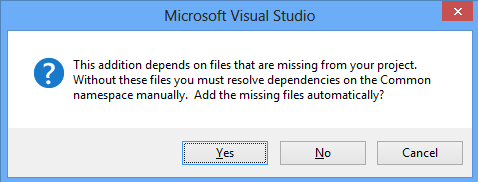
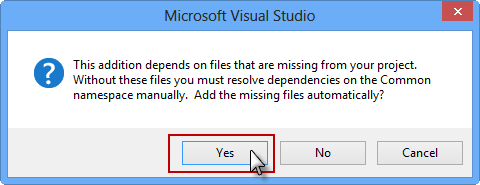
# Updated Scrumptious tutorial for Windows 8 (WIP)

diff --git a/docs/windows/tutorial/index.md b/docs/windows/tutorial/index.md
@@ -32,20 +32,24 @@ Once you have created the app, you need to edit the app and change a few setting
 
 ![Create Facebook App](images/FacebookAppWebsite/2-EditFBAppBasic.png)
 
-> ATTENTION: You may have to wait 5-10 minutes for the App you just created to propagate through the Facebook system before it becomes Active. If your app's facebook login is not working immediately after you created the App, give it 10 minutes and try again.
+> **Important**: You may have to wait 5-10 minutes for the App you just created to propagate through the Facebook system before it becomes Active. If your app's facebook login is not working immediately after you created the App, give it 10 minutes and try again.
 
 ### Getting Started on the Application
-To get started, create a Visual Studio project using the Visual C# -> Windows Store -> Blank App. Let us call our app the Facebook.Scrumptious.Windows8. Install the Facebook nuget package into the solution by starting the Package Manager powershell by following:
+To get started, create a Visual Studio project using the _Visual C# -> Windows Store -> Blank App_. Let us call our app the _Facebook.Scrumptious.Windows8_.
 
-Tools->Library Package Manager->Package Manager console
+![Create a Windows Store Blank App](images/Introduction/1-CreatingProject.png)
+
+Install the Facebook nuget package into the solution by starting the Package Manager powershell by following:
+
+_Tools->Library Package Manager->Package Manager console_
 
 Once the powershell command prompt is running, type the following two commands
 
-"Install-Package Facebook"
+    Install-Package Facebook
 
 ![Intall Nuget](images/Introduction/1.1-AddingFacebookNuget.png)
 
-"Install-Package Facebook.Client -pre"
+    Install-Package Facebook.Client -pre
 
 ![Intall Nuget](images/Introduction/1.1.1-AddingFacebook.ClientNuget.png)
 
@@ -53,7 +57,7 @@ These will download the nuget packages and install the SDK into your project and
 
 ![Facebook Reference](images/Introduction/1.2-AddingFacebook-References.png)
 
-> NOTE: The _-pre_ flag is applied to the Facebook.Client NuGet package because it is still in preview mode owing to currently being in active development. Once this package is stable, you will not need the _-pre_ flag.
+> **Note**: The _-pre_ flag is applied to the Facebook.Client NuGet package because it is still in preview mode owing to currently being in active development. Once this package is stable, you will not need the _-pre_ flag.
 
 Once you've done that, work through the following steps of the tutorial:
 
@@ -91,11 +95,11 @@ This will show a Red line under the HomePage showing Visual Studio does not know
 
 ![Resolve Home Page](images/Authenticate/2.2-ResolveHomePage.png)
 
-You can also resolve this  by manually typing:
+You can also resolve this by manually typing at the top of the page the following line:
 
     using Facebook.Scrumptious.Windows8.Views; 
 
-at the top of the page. In future references, I will assume that you know how to resolve a reference.
+In future references, I will assume that you know how to resolve a reference.
 
 The HomePage will host our Facebook login button and the Facebook login code.
 
@@ -109,6 +113,14 @@ This will show a prompt saying that to satisfy dependencies, more files will be 
 
 ### Setup the User Interface
 
+
+Add a new item of type _class_ to the _ViewModel_ folder. Call the class _Constants.cs_ and add the following code to it. Make sure to replace the string _Your Facebook App ID here_ with your Facebook App ID that you obtained earlier when you created your app on the Facebook Developer Portal.
+
+    public class Constants
+    {
+        public static readonly string FacebookAppId = "Your Facebook App ID here";
+    }
+
 In App.xaml.cs add the following four variables to hold the Facebook OAuth Access Token, the User's ID once they have logged in into Facebook, a flag to keep track that the user has already been authenticated and the FacebookSessionClient class which wraps the Facebook OAuth login in a convenient fashion:
 
     internal static string AccessToken = String.Empty;
@@ -116,7 +128,9 @@ In App.xaml.cs add the following four variables to hold the Facebook OAuth Acces
     public static bool isAuthenticated = false;
     public static FacebookSessionClient FacebookSessionClient = new FacebookSessionClient(Constants.FacebookAppId);
 
-Now Replace the contents of HomePage.xaml with the following. All the following does is to add some text to the Page and a button for facebook login. Additionally, it says that the button click will be handled by an event handler named "btnFacebookLogin_Click".
+Make sure to resolve any missing dependencies as illustrated earlier to ensure that the code builds without errors.
+
+Now, replace the contents of HomePage.xaml with the following. This adds some text to the page and a button for facebook login. Additionally, it binds the button click event with the event handler named "btnFacebookLogin_Click".
     
     <Page
         x:Class="Facebook.Scrumptious.Windows8.Views.HomePage"
@@ -139,50 +153,45 @@ Now Replace the contents of HomePage.xaml with the following. All the following 
         </Grid>
     </Page>
 
-In HomePage.xaml.cs, add the following two internal variables. The _permissions_ variable to hold a reference to all the extended permissions our application will require i.e. ability to access the user's profile, the ability to read their news feed and the publish to their news feed. The _fb_ variable of type FacebookClient to instantiate the SDK defined facebook client that we will use in the rest of the tutorial to interact with the Facebook APIs. 
+In HomePage.xaml.cs, add the following private variable. 
 
     private FacebookSession session;
-    
-Additionally, add the following code which defines the event handlers for the facebook login button. 
 
-        async private void btnFacebookLogin_Click(object sender, RoutedEventArgs e)
-        {
-            if (!App.isAuthenticated)
-            {
-                App.isAuthenticated = true;
-                await Authenticate();
-            }
-        }
-
-Also add the following code to perform the Authentication and request read permissions for the user's profile and other data, and to navigate to the LandingPage when the login has succeeded:
+Add the following code to perform the authentication and request read permissions for the user's profile and other data, and to navigate to the LandingPage when the login has succeeded:
  
-        private async Task Authenticate()
-        {
-            string message = String.Empty;
-            try
-            {
-                session = await App.FacebookSessionClient.LoginAsync("user_about_me,read_stream");
-                App.AccessToken = session.AccessToken;
-                App.FacebookId = session.FacebookId;
-                
-                Frame.Navigate(typeof(LandingPage));
-            }
-            catch (InvalidOperationException e)
-            {
-                message = "Login failed! Exception details: " + e.Message;
-                MessageDialog dialog = new MessageDialog(message);
-                dialog.ShowAsync();
-            }
-        }
-
-At this step, also add a new item of type _class_ to the _ViewModel_ folder. Call the class _Constants.cs_ and add the following code to it. Make sure to replace the string _Your Facebook App ID here_ with your Facebook App ID that you obtained earlier when you created your app on the Facebook Developer Portal.
-
-    class Constants
+    private async Task Authenticate()
     {
-        public static readonly string FacebookAppId = "Your Facebook App ID here";
+        string message = String.Empty;
+        try
+        {
+            session = await App.FacebookSessionClient.LoginAsync("user_about_me,read_stream");
+            App.AccessToken = session.AccessToken;
+            App.FacebookId = session.FacebookId;
+            
+            Frame.Navigate(typeof(LandingPage));
+        }
+        catch (InvalidOperationException e)
+        {
+            message = "Login failed! Exception details: " + e.Message;
+            MessageDialog dialog = new MessageDialog(message);
+            dialog.ShowAsync();
+        }
     }
 
-Make sure to resolve any missing dependencies as illustrated earlier to ensure that the code builds without errors. You should now be able to run the app and login to Facebook. You should also see the dialog to add extended permissions. When executed, your app should present you with the following dialogs. When you are successfully logged in, you should be naviated to a blank page - LandingPage.
+Again, make sure to resolve any missing dependencies as illustrated earlier to ensure that the code builds without errors. 
+
+Finally, add the following code which defines the event handlers for the facebook login button. 
+
+    async private void btnFacebookLogin_Click(object sender, RoutedEventArgs e)
+    {
+        if (!App.isAuthenticated)
+        {
+            App.isAuthenticated = true;
+            await Authenticate();
+        }
+    }
+
+You should now be able to run the app and login to Facebook. You should also see the dialog to add extended permissions. When executed, your app should present you with the following dialogs. When you are successfully logged in, you should be naviated to a blank page - LandingPage.
 
 Login Page
 
@@ -193,54 +202,54 @@ Basic Permissions Page
 ![Login and Basic Permissions Page](images/Authenticate/6-BasicPermission.png)
 
 
-##Personalize
+## Personalize
 
 This tutorial outlines how to personalize your app experience with the Facebook SDK for Windows 8 by displaying the user's profile picture and name.
 
-### Setup the UI. 
+### Setup the UI
 
-Insert the following code to LandingPage.xaml with the following content, which merely adds an image control and a TextBlock to hold the User's profile picture and name. Make sure to insert this right after the declaration of the back button and page title Grid:
+Insert the following code to the LandingPage.xaml file, which merely adds an image control and a TextBlock to hold the User's profile picture and name. Make sure to insert this right after the declaration of the back button and page title Grid.
 
-        <Grid Grid.Row="1">
-            <Grid.ColumnDefinitions>
-                <ColumnDefinition Width="208*"/>
-                <ColumnDefinition Width="475*"/>
-            </Grid.ColumnDefinitions>
-            <StackPanel HorizontalAlignment="Center" VerticalAlignment="Center">
-                <Image x:Name="MyImage" Height="100" Width="100"/>
-                <TextBlock x:Name="MyName" TextWrapping="Wrap" Text="TextBlock" FontFamily="Segoe UI" FontSize="29.333"/>
-            </StackPanel>
-        </Grid>
-        
-Also, give a correct name to the page by changing the AppName from _My Application_ to _Scrumptious_ in the XAML file.
+    <Grid Grid.Row="1">
+        <Grid.ColumnDefinitions>
+            <ColumnDefinition Width="208*"/>
+            <ColumnDefinition Width="475*"/>
+        </Grid.ColumnDefinitions>
+        <StackPanel HorizontalAlignment="Center" VerticalAlignment="Center">
+            <Image x:Name="MyImage" Height="100" Width="100"/>
+            <TextBlock x:Name="MyName" TextWrapping="Wrap" Text="TextBlock" FontFamily="Segoe UI" FontSize="29.333"/>
+        </StackPanel>
+    </Grid>
+
+Also, give a correct name to the page by changing the AppName from _My Application_ to _Facebook Scrumptious Sample for Windows 8_ in the XAML file.
 
 ### Retrieve the User's profile data and display it
 
-At this point, the user has been Authenticated and their AccessToken and FacebookId is stored in App.xaml.cs static variables and hence it is available throughout the program. Now copy the following code into LandingPage.xaml.cs:
+At this point, the user has been Authenticated and their AccessToken and FacebookId is stored in App.xaml.cs static variables and hence it is available throughout the program. Now copy the following code into the LandingPage.xaml.cs file and resolve the missing dependencies.
 
-        private async void LoadUserInfo()
-        {
-            FacebookClient _fb = new FacebookClient(App.AccessToken);
+    private async void LoadUserInfo()
+    {
+        FacebookClient _fb = new FacebookClient(App.AccessToken);
 
-            dynamic parameters = new ExpandoObject();
-            parameters.access_token = App.AccessToken;
-            parameters.fields = "name";
+        dynamic parameters = new ExpandoObject();
+        parameters.access_token = App.AccessToken;
+        parameters.fields = "name";
 
-            dynamic result = await _fb.GetTaskAsync("me", parameters);
+        dynamic result = await _fb.GetTaskAsync("me", parameters);
 
-            string profilePictureUrl = string.Format("https://graph.facebook.com/{0}/picture?type={1}&access_token={2}", App.FacebookId, "large", _fb.AccessToken);
+        string profilePictureUrl = string.Format("https://graph.facebook.com/{0}/picture?type={1}&access_token={2}", App.FacebookId, "large", _fb.AccessToken);
 
-            this.MyImage.Source = new BitmapImage(new Uri(profilePictureUrl));
-            this.MyName.Text = result.name;
-        }
-        
+        this.MyImage.Source = new BitmapImage(new Uri(profilePictureUrl));
+        this.MyName.Text = result.name;
+    }
+
 The above code retrieves the user profile data. It additionally creates a URL for the user's profile picture and sets it as the source of the image. This causes the image to automatically retrieve the profile picture and load it correctly.
 
-As a Final step in personalization, we have to invoke the function as soon as the page has been loaded. To do this, add the following line in the Constructor after the InitializeComponent call:
+As a final step in personalization, we have to invoke the function as soon as the page has been loaded. To do this, add the following line in the Constructor after the InitializeComponent call:
 
     LoadUserInfo();
             
-As before, make sure to resolve any missing dependencies as illustrated earlier to ensure that the code builds and runs without errors. At the end of this step, your UI for landing page will look like the following:
+At the end of this step, your UI for landing page will look like the following:
 
 ![Personalized Page](images/Personalize/Personalized-Page.png)
 
@@ -258,7 +267,7 @@ After that, add the following code to LandingPage.xaml. This adds an icon and Te
                     <Grid.ColumnDefinitions>
                         <ColumnDefinition Width="150"/>
                         <ColumnDefinition Width="
-						*"/>
+                        *"/>
                     </Grid.ColumnDefinitions>
                     <Image HorizontalAlignment="Center" Height="150" VerticalAlignment="Center" Width="150"  Grid.Column="0" Stretch="None" Source="ms-appx:///Assets/PersonWin8.png" />
                     <StackPanel Grid.Column="1">
